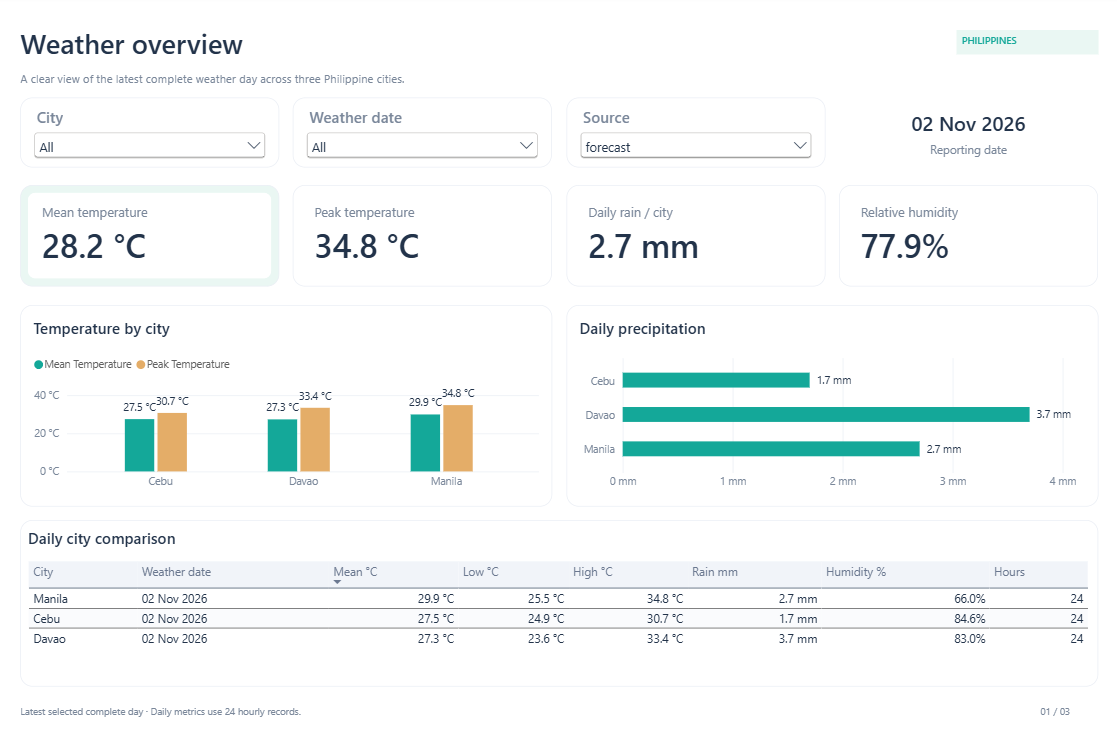
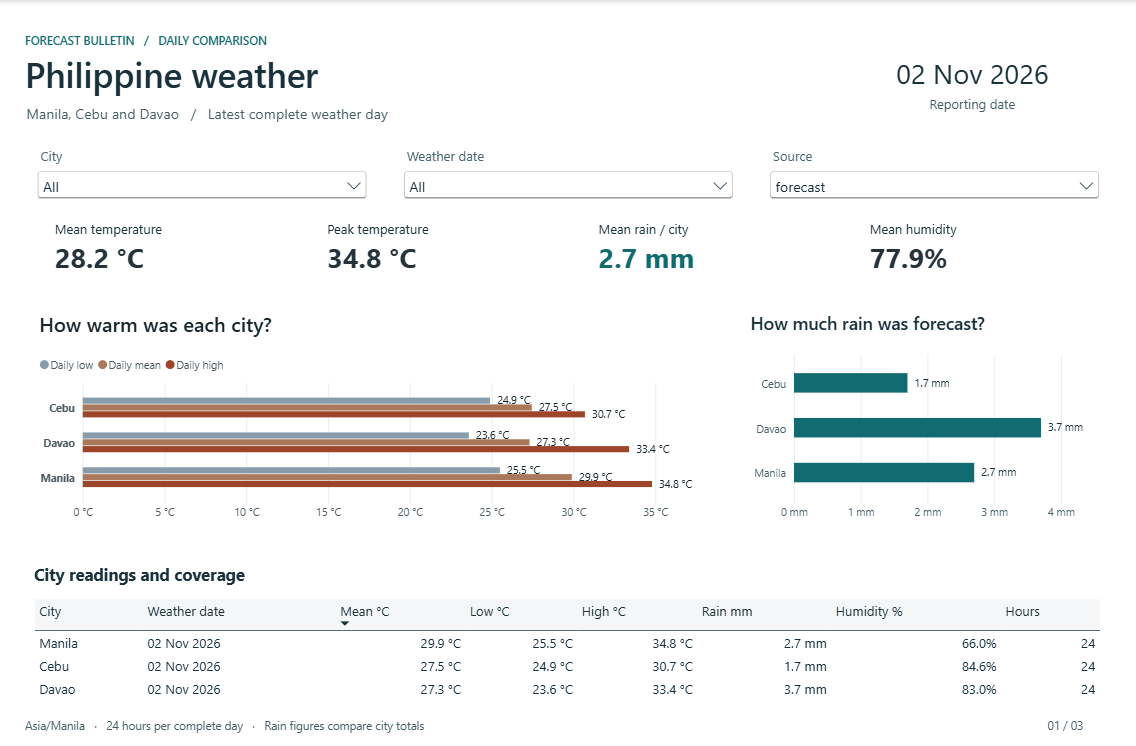
Update Power BI screenshots in the README

diff --git a/README.md b/README.md
@@ -10,8 +10,8 @@ date-based recovery, orchestration, and visualization.
 
 ![Power BI weather overview for Manila, Cebu, and Davao](docs/images/weather-overview.png)
 
-*Overview report with saved forecast data for 2 November 2026.
-[Download the Power BI report](power_bi/weather_analytics.pbix) to explore all three pages.*
+*Redesigned Overview with saved forecast data for 2 November 2026.
+The [downloadable PBIX](power_bi/weather_analytics.pbix) uses the previous layout.*
 
 ## How it works
 
@@ -365,6 +365,15 @@ the primary key. Reapply `sql/analytics.sql` if updating existing views.
 Open [weather_analytics.pbix](power_bi/weather_analytics.pbix) in Power BI Desktop.
 The standalone file includes saved data, visuals, queries, and DAX measures.
 No supporting project files are needed. Only the PBIX is tracked in `power_bi/`.
+<details>
+<summary>Redesigned Hourly Patterns and Snapshot History</summary>
+
+![Hourly temperature, rainfall, and humidity charts](docs/images/weather-hourly-patterns.png)
+
+![Forecast snapshot history showing ingestion times and stored records](docs/images/weather-snapshot-history.png)
+
+</details>
+
 Use the bottom tabs to navigate:
 
 - **Overview:** latest selected complete weather day, city comparisons, mean and
@@ -388,8 +397,8 @@ The model uses **Import** mode. Opening it displays cached data; to update it:
    database `weather`. Change the data source settings if your host or port differs.
 4. Save the PBIX to retain the refreshed data.
 
-Report refresh reads PostgreSQL; it does not run Airflow. The README image is a
-static snapshot and must be replaced separately when you want a newer preview.
+Report refresh reads PostgreSQL independently of Airflow. The screenshots show
+saved report views in Power BI Desktop.
 
 ## Tests
 
